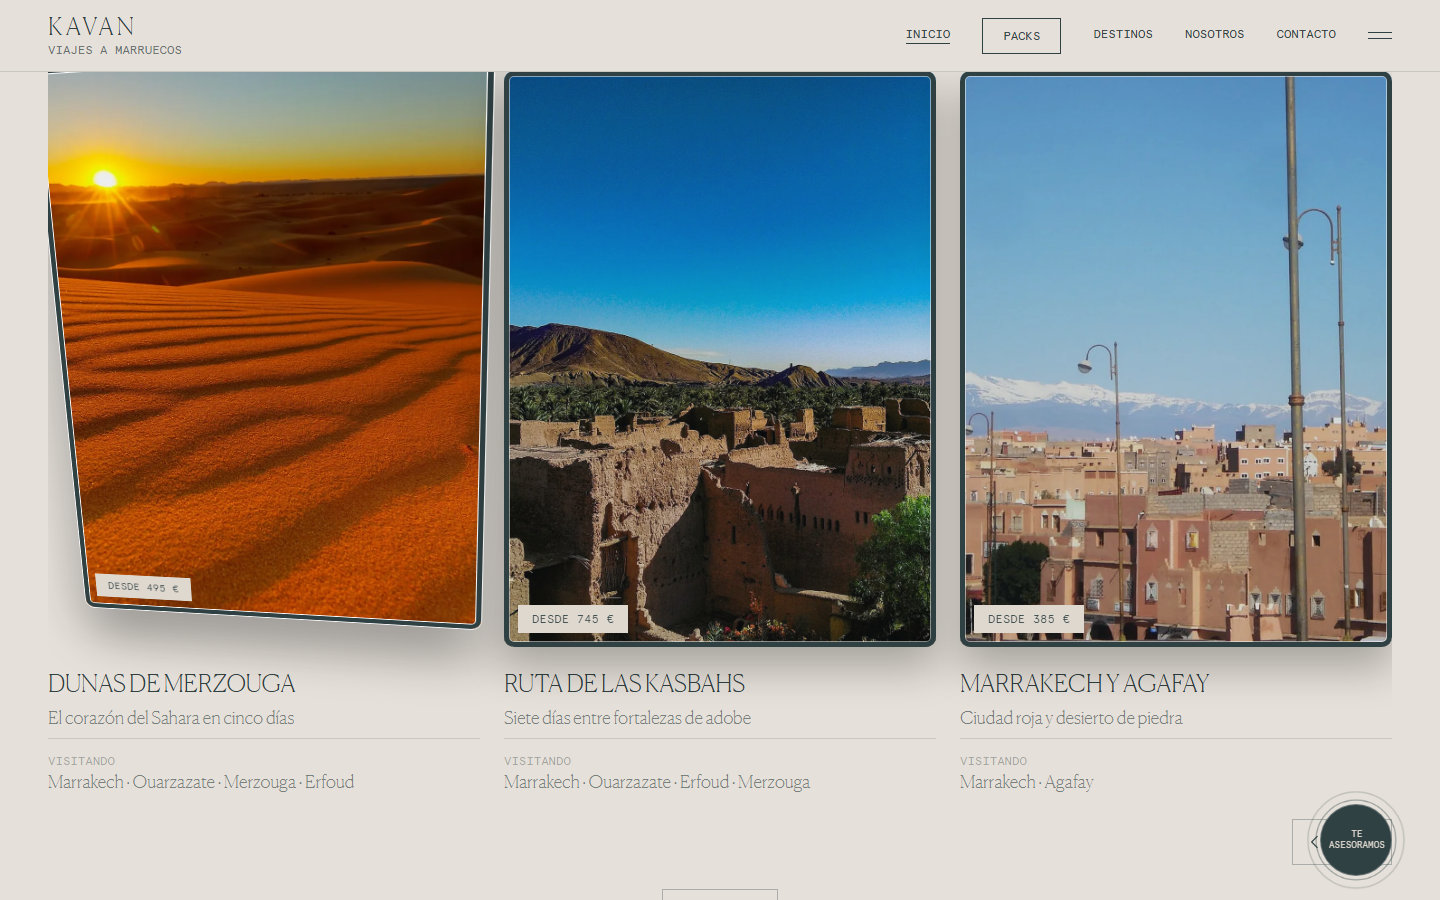
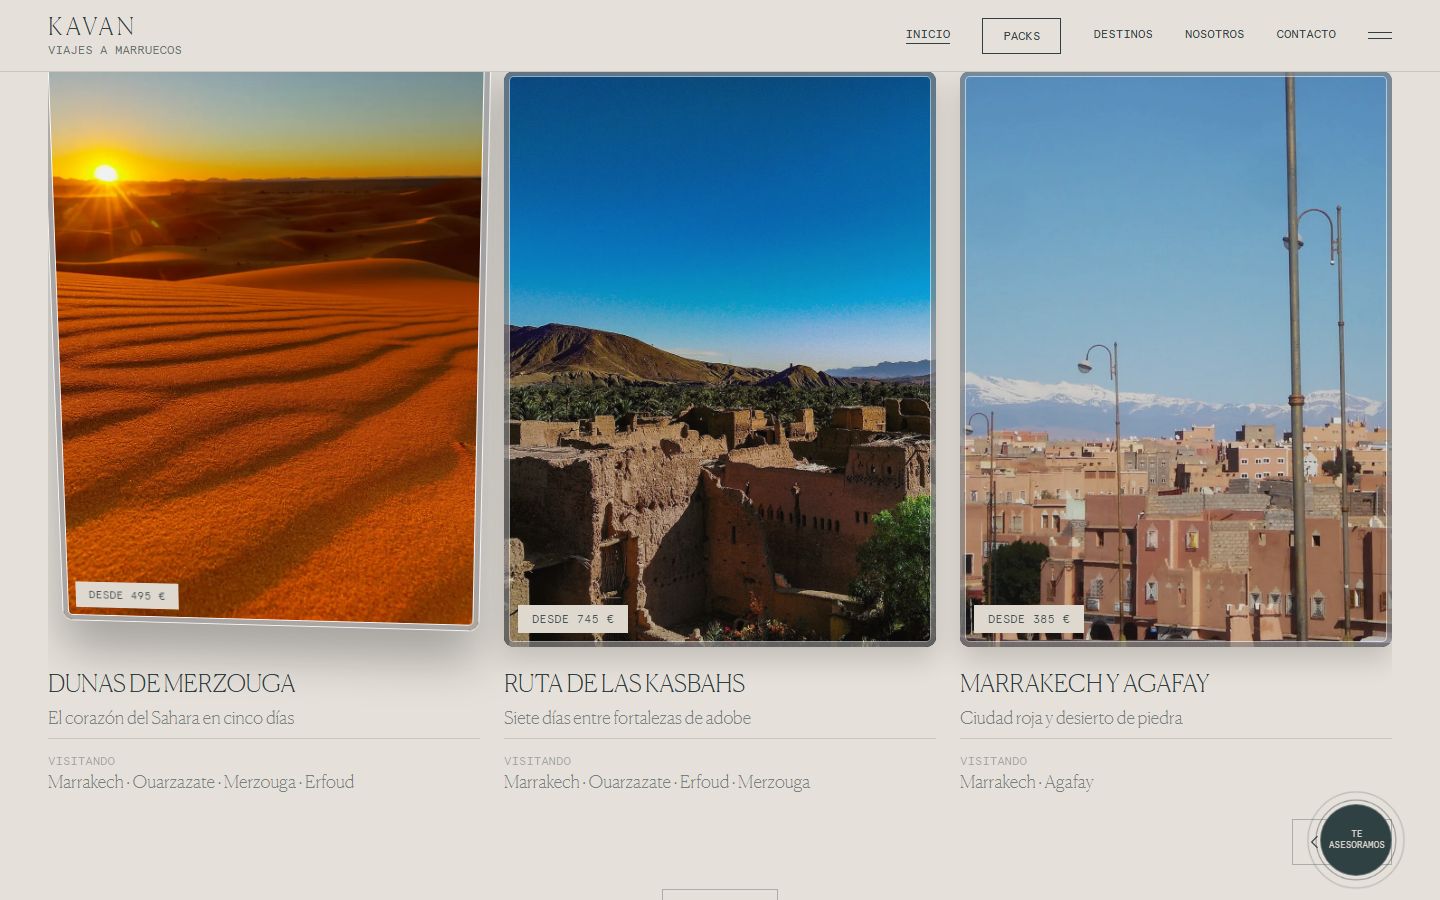
fix: suaviza el gesto de las tarjetas y corrige la línea interior
- el giro baja de ±15° a ±7°: las tarjetas aquí son mucho más grandes
  que las 240px del original y a 15° el movimiento resultaba brusco
- se añade la elevación al pasar por encima, en el escenario y no en la
  tarjeta, porque el giro ocupa ya el atributo style
- la sombra en reposo se aligera para que la elevación se lea
- el anillo interior pasa de la tinta de marca a un neutro traslúcido:
  en verde se convertía en un marco, y lo que hay que ver es sólo la
  línea blanca fina, como en el original

Changed region(s): [[0.0312, 0.0622, 0.9688, 0.7156], [0.6875, 0.7156, 0.9375, 0.7467], [0.375, 0.7156, 0.625, 0.7467]]

diff --git a/src/components/travel/PackCard.css b/src/components/travel/PackCard.css
@@ -14,9 +14,18 @@
   height: 100%;
 }
 
+/* La elevación va en el escenario y el giro en la tarjeta: separados, porque
+   el giro lo escribe el componente en el atributo style y aquí no se puede
+   sumar nada a esa misma propiedad. */
 .pack-card-stage {
   transform: perspective(800px);
   transform-style: preserve-3d;
+  transition: transform 1s var(--regreso);
+}
+
+.pack-card-stage:hover {
+  transition: transform 0.6s var(--entrada);
+  transform: perspective(800px) translateY(-0.625rem);
 }
 
 /* ---------- La tarjeta ----------
@@ -28,17 +37,17 @@
   aspect-ratio: 3 / 4;
   overflow: hidden;
   border-radius: 0.625rem;
-  background: var(--c-base-1000);
-  box-shadow: rgba(0, 0, 0, 0.28) 0 1.25rem 2.5rem 0;
+  background: #2f2f2f;
+  box-shadow: rgba(0, 0, 0, 0.16) 0 0.75rem 1.75rem 0;
   transition: transform 1s var(--regreso), box-shadow 1s var(--regreso);
 }
 
 .pack-card-stage:hover .pack-card-media {
   transition: transform 0.6s var(--entrada), box-shadow 2s var(--entrada);
   box-shadow:
-    rgba(255, 255, 255, 0.2) 0 0 2.5rem 0.3125rem,
-    rgba(255, 255, 255, 0.9) 0 0 0 1px,
-    rgba(0, 0, 0, 0.4) 0 1.875rem 3.75rem 0;
+    rgba(255, 255, 255, 0.18) 0 0 2.5rem 0.25rem,
+    rgba(255, 255, 255, 0.85) 0 0 0 1px,
+    rgba(0, 0, 0, 0.34) 0 1.75rem 3.25rem 0;
 }
 
 /* ---------- El fondo ----------
@@ -67,10 +76,10 @@
 }
 
 /* ---------- Línea interior ----------
-   Los dos `inset` del original: un anillo del color de la tinta y, justo
-   detrás, un filete claro de 1px. Allí se ven a través de un fondo al 50%
-   de opacidad; aquí van en su propia capa por encima de la fotografía, que
-   se queda a plena luz. */
+   Lo que se ve en el original es una línea blanca fina recorriendo la
+   tarjeta por dentro. El anillo que lleva detrás es `#333`: un neutro que
+   se funde con la fotografía y sólo la oscurece un punto. Con el color de
+   la marca se convertía en un marco verde, que no es lo que hay que ver. */
 
 .pack-card-inline {
   position: absolute;
@@ -79,16 +88,16 @@
   border-radius: inherit;
   pointer-events: none;
   box-shadow:
-    inset var(--c-base-1000) 0 0 0 0.3125rem,
-    inset rgba(255, 255, 255, 0.5) 0 0 0 0.375rem;
+    inset rgba(0, 0, 0, 0.32) 0 0 0 0.3125rem,
+    inset rgba(255, 255, 255, 0.55) 0 0 0 0.375rem;
   transition: box-shadow 2s var(--regreso);
 }
 
 .pack-card-stage:hover .pack-card-inline {
   transition: box-shadow 2s var(--entrada);
   box-shadow:
-    inset var(--c-base-1000) 0 0 0 0.3125rem,
-    inset #fff 0 0 0 0.375rem;
+    inset rgba(0, 0, 0, 0.32) 0 0 0 0.3125rem,
+    inset rgba(255, 255, 255, 0.95) 0 0 0 0.375rem;
 }
 
 /* ---------- Precio ---------- */

diff --git a/src/components/travel/PackCard.tsx b/src/components/travel/PackCard.tsx
@@ -6,11 +6,13 @@ import { Pic } from '../ui/Pic'
 import { cities } from '../../data/seed'
 import './PackCard.css'
 
-/* Valores del original (codepen andymerskin/XNMWvQ):
-   la tarjeta gira hasta 15° por eje y el fondo se desplaza hasta 20px en
-   sentido contrario, que es lo que da la sensación de profundidad. */
-const GIRO = 30 // grados sobre el recorrido completo, ±15 desde el centro
-const DESPLAZAMIENTO = 40 // px sobre el recorrido completo, ±20 desde el centro
+/* El original gira hasta 15° por eje. Aquí las tarjetas son bastante más
+   grandes que las suyas de 240px, y a ese tamaño 15° se siente brusco: se
+   queda en 7°, que es donde el gesto resulta suave. El desplazamiento del
+   fondo en sentido contrario sí se mantiene generoso, porque es lo que da la
+   sensación de profundidad. */
+const GIRO = 14 // grados sobre el recorrido completo, ±7 desde el centro
+const DESPLAZAMIENTO = 26 // px sobre el recorrido completo, ±13 desde el centro
 
 /** Al salir, el original espera un segundo antes de devolver la tarjeta. */
 const RETARDO_SALIDA = 1000
